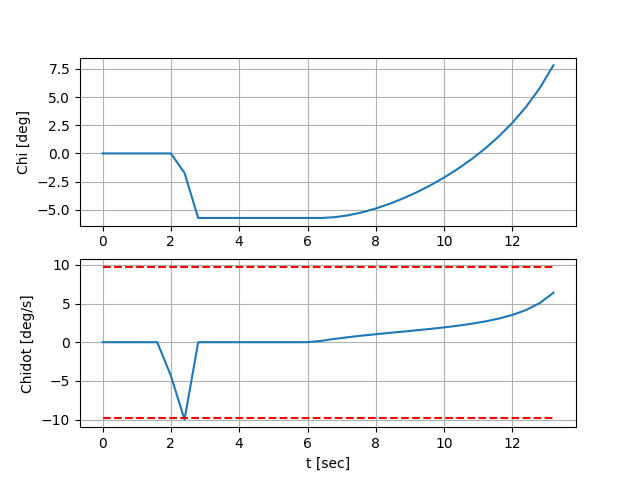
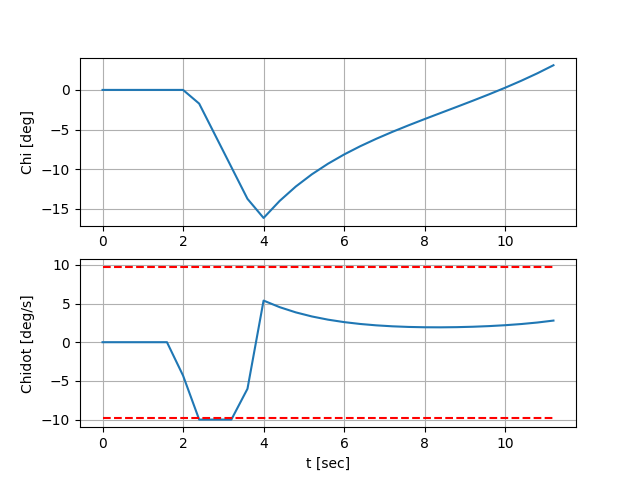
working on stopping vehicle

diff --git a/nlp.py b/nlp.py
@@ -170,10 +170,11 @@ class nlpProb(object):
         if nObstacle > 0:
             for k in range(nObstacle):
                 obstacleFaceCenter = np.array([ (obstacle.E[k] + obstacle.w[k]/2), (obstacle.N[k]) ])
-                terminalPosition = x[-1,0:2]
-                consObstacle = np.sqrt([(obstacleFaceCenter[0]-terminalPosition[0])**2 +
-                                        (obstacleFaceCenter[1]-terminalPosition[1])**2])
-                cons = np.concatenate([cons, consObstacle])
+                terminalPositions = x[:,0:2]
+                for k in range(N):
+                    consObstacle = np.sqrt([(obstacleFaceCenter[0]-terminalPositions[k][0])**2 +
+                                        (obstacleFaceCenter[1]-terminalPositions[k][1])**2])
+                    cons = np.concatenate([cons, consObstacle])
 
                 #if consObstacle < 5.9:
                 #print(terminalPosition)
@@ -263,7 +264,20 @@ class nlpProb(object):
         cl_tmp1 = np.concatenate([cl_running, [-lataccel_max]])
         cu_tmp1 = np.concatenate([cu_running, [+lataccel_max]])
 
-        # if ns == 6:
+        u_approx = u0.flatten(1)
+        x = prob.computeOpenloopSolution(u_approx, N, T, t0, x0)
+
+        terminal_point = x[-1,0:2]
+
+        if distance(terminal_point, endPoint) < distGoalVal:
+            V_cmd_lo = 0
+            V_cmd_hi = V_cmd + delta_V
+        else:
+            V_cmd_lo = V_cmd - delta_V
+            V_cmd_hi = V_cmd + delta_V
+
+        # V_cmd_lo = V_cmd - delta_V
+        # V_cmd_hi = V_cmd + delta_V
 
         if ns_option == 1:
 
@@ -272,8 +286,8 @@ class nlpProb(object):
             cu_tmp2 = np.concatenate([cu_tmp1, [ub_V]])
 
             # Terminal Constraint - V
-            cl_tmp3 = np.concatenate([cl_tmp2, [-delta_V + V_cmd]])
-            cu_tmp3 = np.concatenate([cu_tmp2, [delta_V + V_cmd]])
+            cl_tmp3 = np.concatenate([cl_tmp2, [V_cmd_lo]])
+            cu_tmp3 = np.concatenate([cu_tmp2, [V_cmd_hi]])
 
             # Terminal Constraint - delChi
             cl = np.concatenate([cl_tmp3, [-delChi_max]])
@@ -288,8 +302,8 @@ class nlpProb(object):
             cl_tmp2 = cl_tmp1
             cu_tmp2 = cu_tmp1
 
-            cl_tmp3 = np.concatenate([cl_tmp2, [-delta_V + V_cmd]])
-            cu_tmp3 = np.concatenate([cu_tmp2, [delta_V + V_cmd]])
+            cl_tmp3 = np.concatenate([cl_tmp2, [V_cmd_lo]])
+            cu_tmp3 = np.concatenate([cu_tmp2, [V_cmd_hi]])
 
             # Terminal Constraint - delChi
             cl = np.concatenate([cl_tmp3, [-delChi_max]])
@@ -310,12 +324,13 @@ class nlpProb(object):
             nObstacle = len(obstacle.N)
             for k in range(nObstacle):
                 obstacleMaxDim = np.maximum(obstacle.w[k], obstacle.l[k])
-                cl = np.concatenate([cl, [obstacleMaxDim/2]])
-                cu = np.concatenate([cu, [LARGE_NO]])
+                for k in range(N):
+                    cl = np.concatenate([cl, [obstacleMaxDim/2]])
+                    cu = np.concatenate([cu, [LARGE_NO]])
 
 
         if ncons != len(cl) and ncons != len(cu):
-            print('Error: resolve number of constraints')
+           print('Error: resolve number of constraints')
 
         nlp = ipopt.problem(
             n=nu*N,

diff --git a/problemData.py b/problemData.py
@@ -51,7 +51,7 @@ ns = 4
 no = 1
 V0 = 10*mph2fps
 
-distGoalVal = 75 # ft
+distGoalVal = 50 # ft
 
 if abs(V0 - 5*mph2fps) <= 10**(-3):
     if no == 0:
@@ -73,7 +73,7 @@ if abs(V0 - 5*mph2fps) <= 10**(-3):
                 mpciterations = 18/sf_T # 18
         elif N == 6:
             if ns == 4:
-                mpciterations = 34/sf_T # 34
+                mpciterations = 50/sf_T # 34
             elif ns == 6:
                 mpciterations = 34/sf_T  # 38 - check mpciterations
         elif N == 8:
@@ -124,7 +124,7 @@ elif abs(V0 - 10*mph2fps) <= 10**(-3):
                 mpciterations = 36/sf_T  # 36
         if N == 6:
             if ns == 4:
-                mpciterations = 34/sf_T  # 34
+                mpciterations = 50/sf_T  # 34
         if N == 8:
             if ns == 4:
                 mpciterations = 32/sf_T  # 32
@@ -325,7 +325,7 @@ if ns == 4:
     #     ncons = 2*N + 2  # (option 3 in nlp.py) running + lataccel + terminal constraint-y
 
     if ncons_option == 1:
-        ncons = 4  # (option 1 in nlp.py) lataccel + V0 + terminal constraint-V + terminal delChi
+        ncons = 4  # (option 1 in nlp.py) lataccel + V0 + terminal constraint-V + N terminal delChi
 
     elif ncons_option == 2:
         ncons = 3  # (option 2 in nlp.py) lataccel + terminal constraint-V + terminal delChi
@@ -399,7 +399,7 @@ else:
 
 if obstaclePresent:
     nObstacle = len(obstacleN)
-    ncons = ncons + nObstacle
+    ncons = ncons + nObstacle*N
 else:
     nObstacle = 0
 

diff --git a/Main.py b/Main.py
@@ -162,6 +162,12 @@ while mpciter < mpciterations:
 
     mpciter = mpciter + 1
 
+    # stop vehicle when close to goal
+    terminal_point = x[-1, 0:2]
+    if distance(terminal_point, endPoint) < distGoalVal:
+        global V_cmd
+        V_cmd = 0.75 * V_cmd  # Changing global variable for stopping vehicle
+
 # close log file
 if writeToFile == True:
     fHandle.close()

diff --git a/printPlots.py b/printPlots.py
@@ -106,9 +106,6 @@ def nmpcPlotSol(u_new,path,drawLPPath,x0,obstacle,pathType):
         #   del ax1.lines[7:12]
         #dummy = raw_input('Press Enter to continue: ')
 
-    print(East[-1],North[-1])
-    print( np.sqrt( (14-East[-1])**2 + (66 - North[-1])**2) )
-
     return V_terminal
 
 
